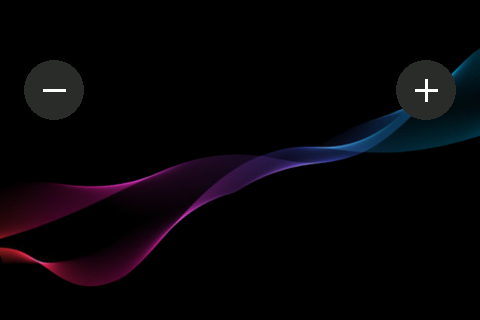
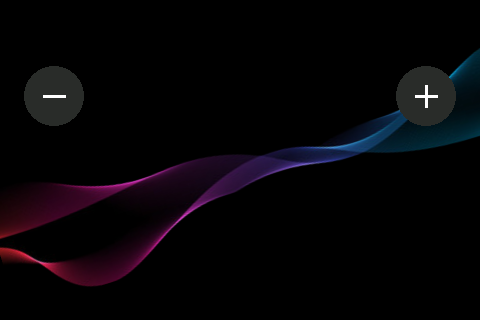
style: Calmer Midnight climate page and status chips
Climate (landscape): the target temperature between -/+, the current
temperature, a narrow heating pill (the heat/off toggle), and the custom
buttons 08/09 as small round buttons beside it with their names under
them. The sliders are not shown any more, nor touched: their pictures are
the background under them, as they only keep the values the -/+ buttons
step.

Status chips: with the Midnight theme, their state colors come from its
palette (Colors::midnight: warm states amber, cool ones blue, grays muted;
alerts, green and Blueprint colors kept), and they are drawn again when the
theme changes.

diff --git a/hmi/dev/pics/midnight/generate_midnight.py b/hmi/dev/pics/midnight/generate_midnight.py
@@ -373,26 +373,30 @@ def light_page(out_dir: Path, mdi_font) -> int:
     return written + 1
 
 
-# Climate page (landscape only), both themes: round -/+ buttons beside the target temperature on
-# the page background, and thin picture sliders. The mode and device tiles are not on the background:
-# each tile button crops one of the full-page tile pictures, so a hidden button leaves no tile behind.
+# Climate page (landscape only), both themes: round -/+ buttons beside the target temperature on the
+# page background. The heating pill and the round device buttons are not on the background: each
+# crops one of the full-page tile pictures, so a hidden button leaves nothing behind. The sliders only
+# keep the values the -/+ buttons step, so their pictures are the background under them: not shown.
 # Its own pictures, so the water heater keeps picture-0037/0064.
 CLIMATE_BG = {"light": 152, "dark": 153}
-CLIMATE_ROUND = [((24, 60), "-"), ((396, 60), "+")]  # top-left of each 60x60 button, and its sign
-CLIMATE_TILES = [(8, 206, 471, 254),                         # heating (a toggle with off)
-                 (8, 262, 235, 310), (244, 262, 471, 310)]   # button08, button09
+CLIMATE_ROUND = [((24, 66), "-"), ((396, 66), "+")]  # top-left of each 60x60 button, and its sign
+CLIMATE_TILES = [((140, 196, 339, 251), 28),   # heating pill (a toggle with off)
+                 ((44, 196, 99, 251), 28),     # button08, round
+                 ((380, 196, 435, 251), 28)]   # button09, round
 CLIMATE_TILE_PICS = {"light": (160, 161), "dark": (162, 163)}  # tiles, active tiles; see page_climate.h
-CLIMATE_SLIDERS = {  # slot -> (theme, part, top-left on the page, width)
-    154: ("light", "track", None, 432), 155: ("light", "fill", None, 432),          # climateslider
-    164: ("light", "track", None, 212), 165: ("light", "fill", None, 212),          # slider_low, slider_high
-    156: ("dark", "track", (24, 162), 432), 157: ("dark", "fill", (24, 162), 432),  # climateslider
-    158: ("dark", "track", (24, 162), 212), 159: ("dark", "fill", (24, 162), 212),  # slider_low
-    166: ("dark", "track", (244, 162), 212), 167: ("dark", "fill", (244, 162), 212),  # slider_high
+CLIMATE_SLIDER_CURSORS = {168: BG, 169: (0, 0, 0)}  # Midnight, dark
+CLIMATE_SLIDERS = {  # slot -> (theme, top-left on the page, width); track and fill alike
+    154: ("light", (24, 282), 432), 155: ("light", (24, 282), 432),    # climateslider
+    164: ("light", (24, 282), 212), 165: ("light", (24, 282), 212),    # slider_low, slider_high
+    156: ("dark", (24, 282), 432), 157: ("dark", (24, 282), 432),      # climateslider
+    158: ("dark", (24, 282), 212), 159: ("dark", (24, 282), 212),      # slider_low
+    166: ("dark", (244, 282), 212), 167: ("dark", (244, 282), 212),    # slider_high
 }
 
 
 def climate_page(out_dir: Path) -> int:
     dark_bg = Image.open(PICS_DIR / "background/background_dark_landscape.png")
+    backgrounds = {}
     for theme, slot in CLIMATE_BG.items():
         dark = theme == "dark"
         surface = (0x29, 0x2C, 0x29) if dark else TILE
@@ -406,31 +410,25 @@ def climate_page(out_dir: Path) -> int:
             if kind == "+":
                 draw.rectangle((cx - 1, cy - 11, cx + 1, cy + 11), fill=sign)
         picture.convert("RGB").save(out_dir / f"picture-{slot:04d}.png")
+        backgrounds[theme] = picture.convert("RGB")
         # tiles over the same background
         normal, active = CLIMATE_TILE_PICS[theme]
         base = picture.convert("RGBA")
-        tiles = shapes_background([(*r, 14, surface) for r in CLIMATE_TILES], SIZES["landscape"], base)
+        tiles = shapes_background([(*r, radius, surface) for r, radius in CLIMATE_TILES], SIZES["landscape"], base)
         tiles.convert("RGB").save(out_dir / f"picture-{normal:04d}.png")
         on = base.copy()
         draw = ImageDraw.Draw(on)
         edge, fill = ((0xFA, 0xA4, 0x20), (0x4A, 0x2E, 0x10)) if dark else (AMBER, AMBER_FILL)
-        for x0, y0, x1, y1 in CLIMATE_TILES:
-            draw.rounded_rectangle((x0, y0, x1, y1), 14, fill=edge)
-            draw.rounded_rectangle((x0 + 2, y0 + 2, x1 - 2, y1 - 2), 12, fill=fill)
+        for (x0, y0, x1, y1), radius in CLIMATE_TILES:
+            draw.rounded_rectangle((x0, y0, x1, y1), radius, fill=edge)
+            draw.rounded_rectangle((x0 + 2, y0 + 2, x1 - 2, y1 - 2), radius - 2, fill=fill)
         on.convert("RGB").save(out_dir / f"picture-{active:04d}.png")
-    blue = sprite_color("cover/cover_slider_active.png")
-    for slot, (theme, part, place, width) in CLIMATE_SLIDERS.items():
-        size = (width, 36)
-        if theme == "dark":
-            under = wave(place, size)
-            color = blue if part == "fill" else (0x29, 0x2C, 0x29)
-            mask = thin_track(size, (255, 255, 255), False, background=(0, 0, 0)).convert("L")
-            under.paste(Image.new("RGB", size, color), mask=mask)
-            picture = under
-        else:
-            picture = thin_track(size, BLUE if part == "fill" else SURFACE, False)
-        picture.save(out_dir / f"picture-{slot:04d}.png")
-    return 3 * len(CLIMATE_BG) + len(CLIMATE_SLIDERS)
+    for slot, (theme, (x, y), width) in CLIMATE_SLIDERS.items():
+        backgrounds[theme].crop((x, y, x + width, y + 36)).save(out_dir / f"picture-{slot:04d}.png")
+    # their cursors: one pixel of the background color
+    for slot, color in CLIMATE_SLIDER_CURSORS.items():
+        Image.new("RGB", (1, 1), color).save(out_dir / f"picture-{slot:04d}.png")
+    return 3 * len(CLIMATE_BG) + len(CLIMATE_SLIDERS) + len(CLIMATE_SLIDER_CURSORS)
 
 
 # Horizontal cover sliders (landscape only), for both themes: slot -> (theme, part).

diff --git a/components/nspanel_easy/nextion_constants.h b/components/nspanel_easy/nextion_constants.h
@@ -96,6 +96,28 @@ constexpr uint16_t RGB565_MIDNIGHT_TEXT = 63422;    ///< Main text, #F2F4F7 (RGB
 constexpr uint16_t RGB565_MIDNIGHT_TEXT_SECONDARY = 40246;  ///< Secondary text, #9AA4B2 (RGB565: 0x9D36)
 constexpr uint16_t RGB565_MIDNIGHT_NAVIGATION = 27568;      ///< Navigation, #6C7685 (RGB565: 0x6BB0)
 constexpr uint16_t RGB565_MIDNIGHT_UNSUPPORTED = 14858;     ///< Unavailable, #3A4352 (RGB565: 0x3A0A)
+
+/**
+ * @brief The Midnight color for one of the state colors above.
+ *
+ * Warm states take the amber, cool ones the blue and the grays the Midnight grays; alerts, green
+ * and any other color (e.g. one chosen in the Blueprint) are kept.
+ *
+ * @param color A state color.
+ * @return The color to draw with the Midnight theme.
+ */
+constexpr uint16_t midnight(uint16_t color) {
+  return (color == RGB565_DEEP_ORANGE || color == RGB565_ORANGE || color == RGB565_YELLOW ||
+          color == RGB565_YELLOW_GOLDEN)
+             ? RGB565_MIDNIGHT_AMBER
+         : (color == RGB565_BLUE || color == RGB565_CYAN || color == RGB565_CYAN_BRIGHT ||
+            color == RGB565_BLUE_BLUETOOTH)
+             ? RGB565_MIDNIGHT_BLUE
+         : (color == RGB565_GRAY || color == RGB565_GRAY_LIGHT || color == RGB565_GRAY_MOSS)
+             ? RGB565_MIDNIGHT_TEXT_SECONDARY
+         : (color == RGB565_GRAY_DARK || color == RGB565_GRAY_DARKEST) ? RGB565_MIDNIGHT_UNSUPPORTED
+                                                                       : color;
+}
 }  // namespace Colors
 
 // =============================================================================

diff --git a/components/nspanel_easy/chips.cpp b/components/nspanel_easy/chips.cpp
@@ -4,6 +4,11 @@
 
 #include "chips.h"
 #include "nextion_components.h"
+#include "nextion_constants.h"  // For Colors::midnight
+
+#ifdef NSPANEL_EASY_HW_DISPLAY
+#include "hw_display.h"  // For current_theme
+#endif                   // NSPANEL_EASY_HW_DISPLAY
 
 #include "esphome/components/nextion/nextion.h"
 
@@ -29,16 +34,22 @@ void chip_render(uint8_t idx) {
 
   const ChipState &the_chip = chip_states[idx];
   const char *text = the_chip.visible ? the_chip.icon : "";
+#ifdef NSPANEL_EASY_HW_DISPLAY
+  // The Midnight theme draws the state colors from its own palette
+  const uint16_t color = (current_theme == ThemeMode::LIGHT) ? Colors::midnight(the_chip.color) : the_chip.color;
+#else   // NSPANEL_EASY_HW_DISPLAY
+  const uint16_t color = the_chip.color;
+#endif  // NSPANEL_EASY_HW_DISPLAY
 
   nextion_display->set_component_text(CHIP_NAMES_HOME[idx], text);
   if (the_chip.visible) {
-    nextion_display->set_component_font_color(CHIP_NAMES_HOME[idx], the_chip.color);
+    nextion_display->set_component_font_color(CHIP_NAMES_HOME[idx], color);
   }
 
   if (chips_mirror_page) {
     nextion_display->set_component_text(CHIP_NAMES[idx], text);
     if (the_chip.visible) {
-      nextion_display->set_component_font_color(CHIP_NAMES[idx], the_chip.color);
+      nextion_display->set_component_font_color(CHIP_NAMES[idx], color);
     }
   }
 }
